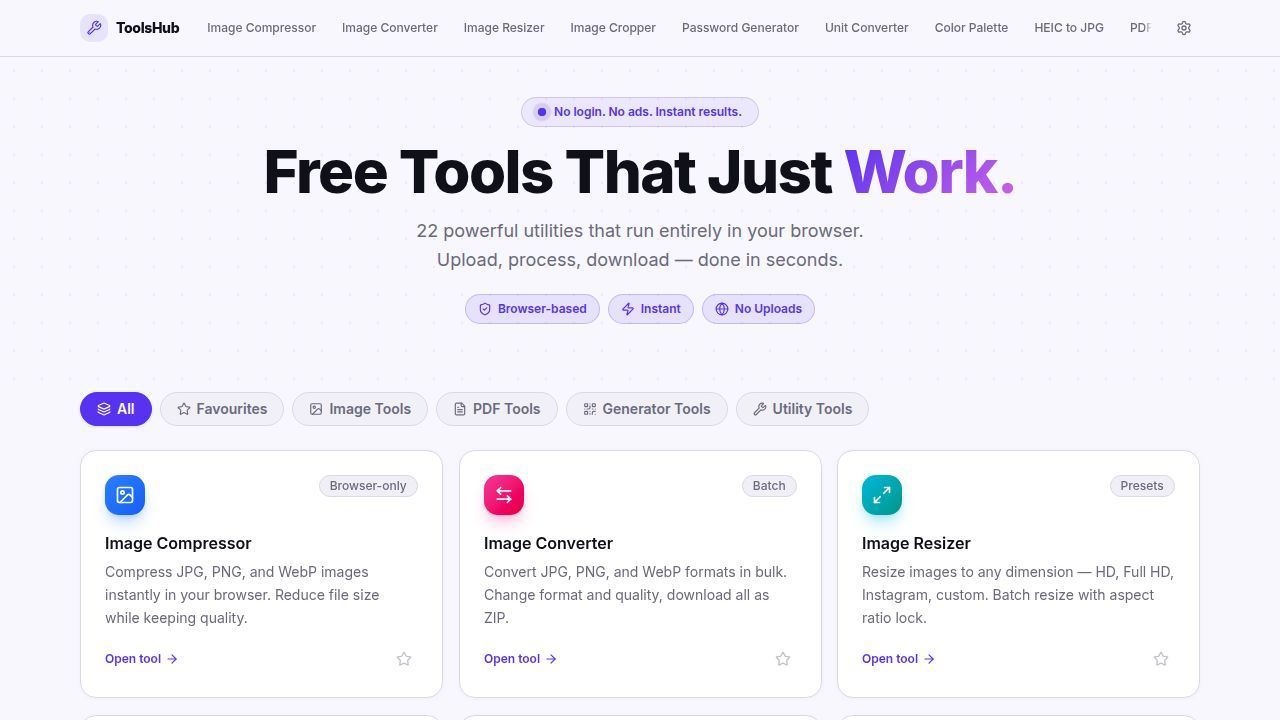
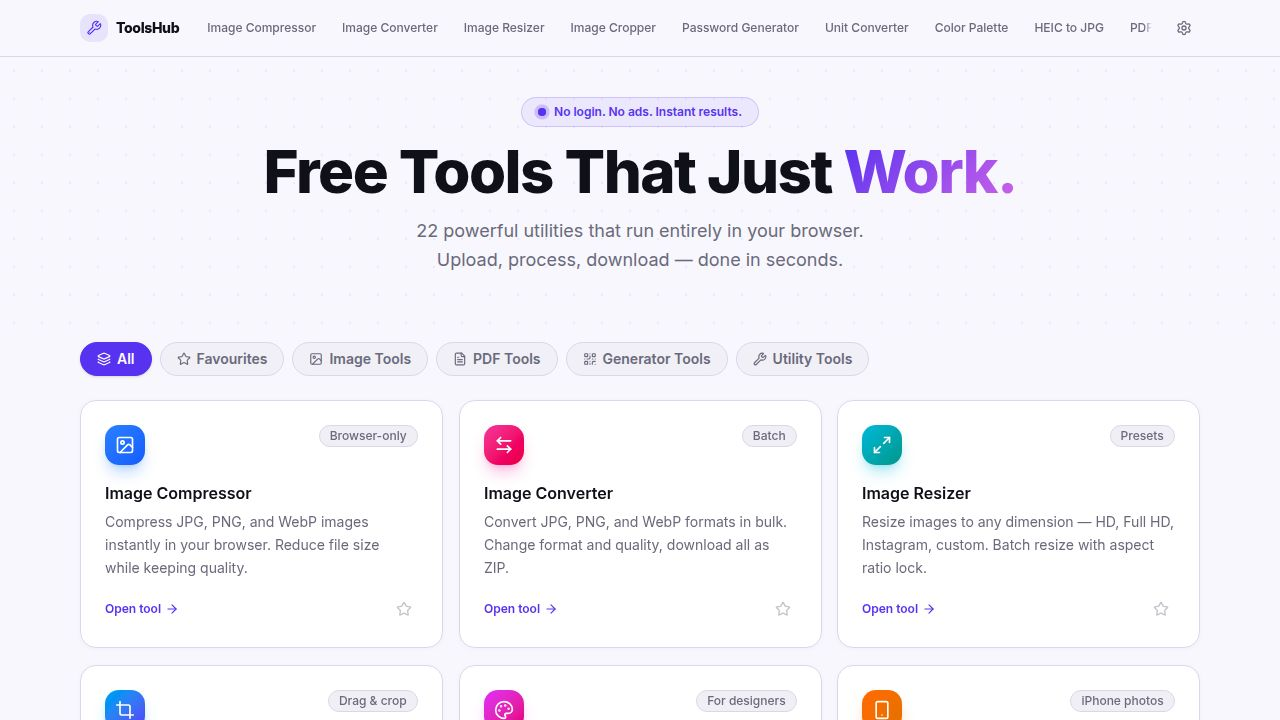
Remove descriptive badges displayed below the page title
Remove the "Browser-based", "Instant", and "No Uploads" feature badges from the Home.tsx component.

Replit-Commit-Author: Agent
Replit-Commit-Session-Id: 6746efdd-f0fd-443f-81a2-2c1e4b127167
Replit-Commit-Checkpoint-Type: full_checkpoint
Replit-Commit-Event-Id: e8d2919d-7c50-4ee1-b9fb-f199c9f707e7
Replit-Commit-Screenshot-Url: https://storage.googleapis.com/screenshot-production-us-central1/42eacc0b-14ee-4476-b1a6-b26ff18d13e0/6746efdd-f0fd-443f-81a2-2c1e4b127167/0IzPLE7
Replit-Helium-Checkpoint-Created: true

diff --git a/artifacts/tools-hub/src/pages/Home.tsx b/artifacts/tools-hub/src/pages/Home.tsx
@@ -491,23 +491,6 @@ export default function Home() {
             Upload, process, download — done in seconds.
           </p>
 
-          {/* Feature badges */}
-          <div className="flex flex-wrap justify-center gap-2 mb-5">
-            {[
-              { icon: ShieldCheck, label: "Browser-based" },
-              { icon: Zap,         label: "Instant" },
-              { icon: Globe,       label: "No Uploads" },
-            ].map(({ icon: Icon, label }) => (
-              <span
-                key={label}
-                className="inline-flex items-center gap-1.5 bg-primary/10 text-primary dark:bg-white/10 dark:text-white border border-primary/25 dark:border-white/20 text-xs font-semibold px-3 py-1.5 rounded-full whitespace-nowrap"
-              >
-                <Icon className="w-3.5 h-3.5 flex-shrink-0" />
-                {label}
-              </span>
-            ))}
-          </div>
-
           {totalUses > 0 && (
             <div className="inline-flex items-center gap-1.5 text-xs font-medium text-muted-foreground bg-muted/60 border border-border px-3 py-1.5 rounded-full">
               <Activity className="w-3.5 h-3.5 text-primary" />